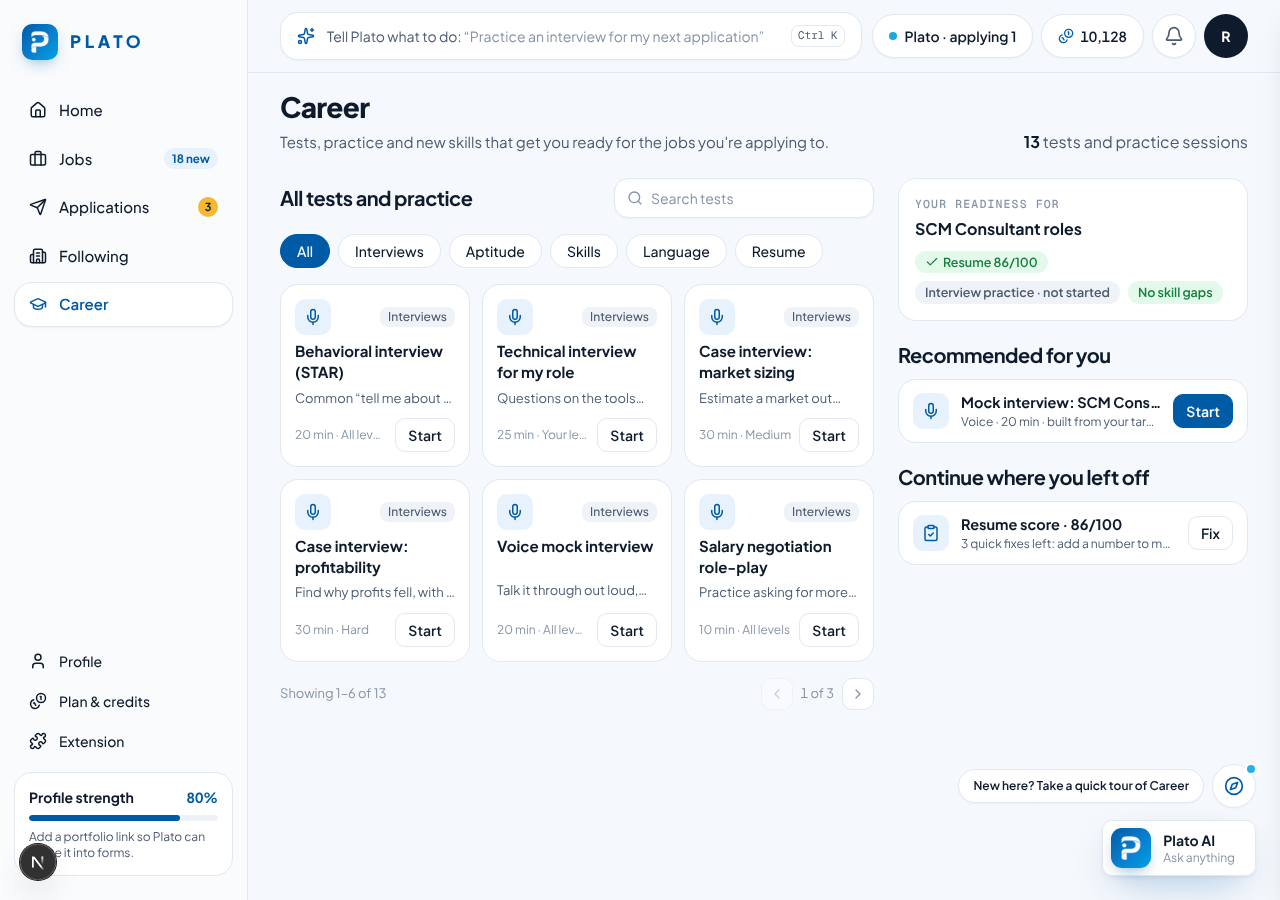
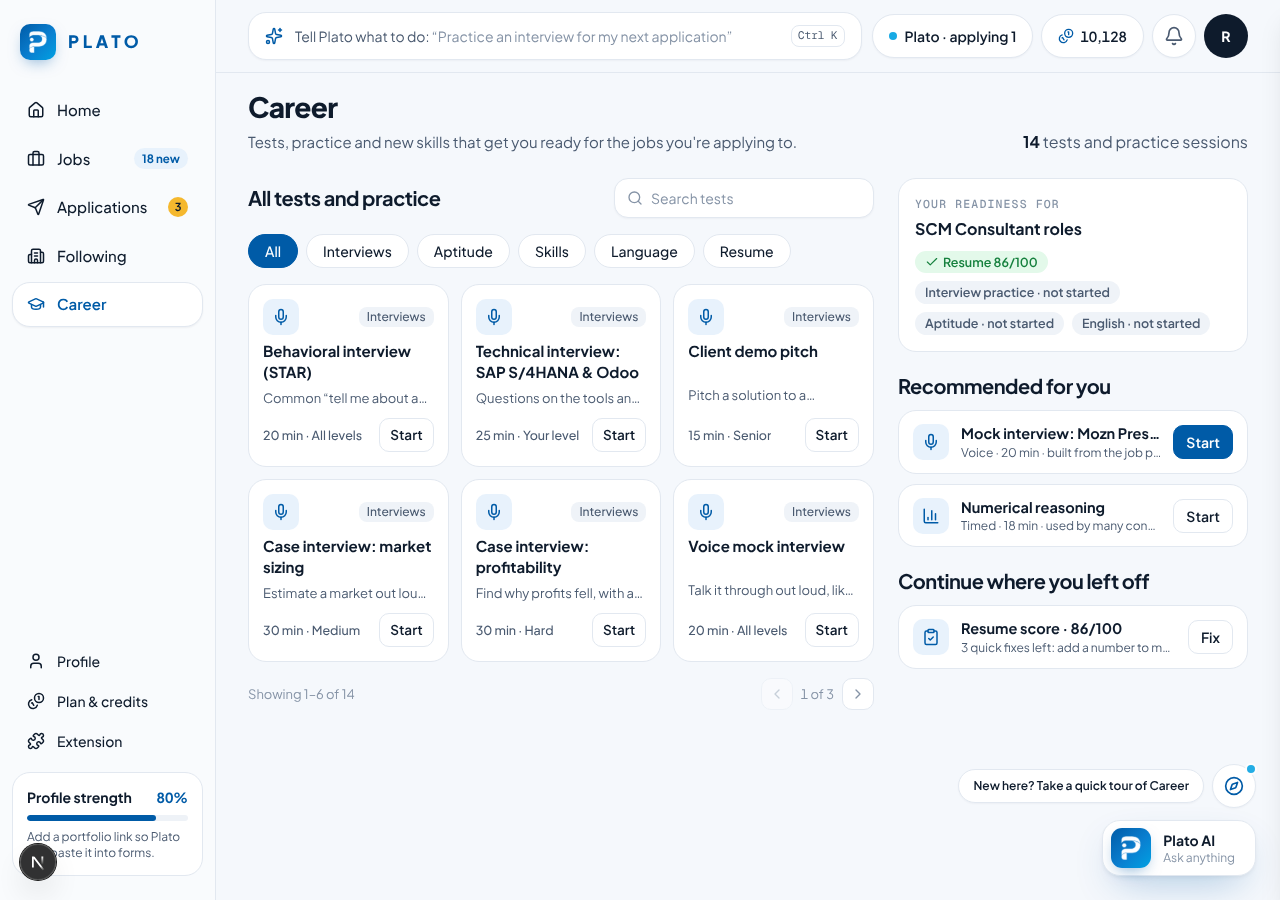
Career closer to the owner's screen 11; sidebar at the screens' width
- Technical interview named after the seeker's skills ('Technical
  interview: SAP S/4HANA & Odoo'); a Client demo pitch card.
- Readiness shows Aptitude and English (not started / practised, from
  their career conversations) next to Resume and Interview practice.
- Recommended: a mock interview built from their best match's job post
  (opens the career chat with that job pinned), and Numerical reasoning
  until they have practised aptitude.
- Resume score row reads 'N quick fixes left: add a number to more
  bullets'; card details are darker and no longer cut off.
- The sidebar is 216px, as in the owner's screens (was 248), which gives
  every page the room the screens show.

Claude-Session: https://claude.ai/code/session_01VMzvXqWuLzBBxJrscGtA5K

diff --git a/plato-job-seeker-native-fe/app/(app)/career/page.tsx b/plato-job-seeker-native-fe/app/(app)/career/page.tsx
@@ -10,6 +10,8 @@ import { StatusPill } from "@/components/plato-ui"
 import { BAND_LABEL, getResumeScore, listCareerResumes, type ResumeScore, listCareerThreads, type CareerThreadSummary } from "@/lib/career/api"
 import { listInterviews, type InterviewSummary } from "@/lib/interviews/api"
 import { timeAgo } from "@/lib/jobs/links"
+import { getMatches, type JobMatch } from "@/lib/jobs/api"
+import { getProfile } from "@/lib/documents/api"
 import { getPreferences } from "@/lib/preferences/api"
 import { getSkillGap, type SkillGap } from "@/lib/skills/api"
 import { CareerChat } from "./career-chat"
@@ -21,6 +23,7 @@ type Practice = { cat: Exclude<Cat, "All">; title: string; body: string; meta: s
 const CATALOG: Practice[] = [
   { cat: "Interviews", title: "Behavioral interview (STAR)", body: "Common “tell me about a time” questions, scored", meta: "20 min · All levels", icon: Mic, prompt: "Give me a behavioral mock interview with STAR questions and score each answer" },
   { cat: "Interviews", title: "Technical interview for my role", body: "Questions on the tools and projects in your CV", meta: "25 min · Your level", icon: Mic, prompt: "Give me a technical mock interview for the role I'm targeting" },
+  { cat: "Interviews", title: "Client demo pitch", body: "Pitch a solution to a skeptical client, then get scored", meta: "15 min · Senior", icon: Mic, prompt: "Role-play a skeptical client and let me pitch a solution demo for my target role, then score my pitch" },
   { cat: "Interviews", title: "Case interview: market sizing", body: "Estimate a market out loud; Plato scores your structure", meta: "30 min · Medium", icon: Mic, prompt: "Give me a market sizing case interview and score my structure" },
   { cat: "Interviews", title: "Case interview: profitability", body: "Find why profits fell, with a structure", meta: "30 min · Hard", icon: Mic, prompt: "Give me a profitability case interview" },
   { cat: "Interviews", title: "Voice mock interview", body: "Talk it through out loud, like the real thing", meta: "20 min · All levels", icon: Mic, href: "/career/interviews" },
@@ -34,6 +37,8 @@ const CATALOG: Practice[] = [
   { cat: "Resume", title: "Tailor to a job", body: "Paste a posting, get a resume that matches it", meta: "5 min", icon: LayoutTemplate, prompt: "Tailor my resume to a job. I'll paste the posting." },
 ]
 const PAGE_SIZE = 6
+// "Add a number to more bullets (users, …): 38% have one" → "add a number to more bullets".
+const shortFix = (t: string) => t.split(/[:(]/)[0].replace(/\.$/, "").trim().replace(/^./, (c) => c.toLowerCase())
 const startHref = (p: Practice) => p.href ?? `/career?prompt=${encodeURIComponent(p.prompt ?? p.title)}`
 
 function CareerHome() {
@@ -47,6 +52,9 @@ function CareerHome() {
   const [threads, setThreads] = useState<CareerThreadSummary[] | null>(null)
   // The master resume's score (fixed rules on the server) and what would raise it.
   const [score, setScore] = useState<ResumeScore | null>(null)
+  const [skills, setSkills] = useState<string[]>([])
+  // The best match right now: the mock interview is built from its job post.
+  const [top, setTop] = useState<JobMatch | null>(null)
 
   useEffect(() => {
     getPreferences()
@@ -67,9 +75,21 @@ function CareerHome() {
     getResumeScore()
       .then(setScore)
       .catch(() => setScore(null))
+    getProfile()
+      .then((p) => setSkills(p.skills ?? []))
+      .catch(() => setSkills([]))
+    getMatches({ tab: "discover", sort: "best", take: 1 })
+      .then((r) => setTop(r.items[0] ?? null))
+      .catch(() => setTop(null))
   }, [])
 
-  const list = useMemo(() => CATALOG.filter((p) => (cat === "All" || p.cat === cat) && (!q.trim() || `${p.title} ${p.body}`.toLowerCase().includes(q.trim().toLowerCase()))), [cat, q])
+  // The technical interview is named after their strongest skills, as on the owner's screen.
+  const catalog = useMemo(() => CATALOG.map((p) => (p.title === "Technical interview for my role" && skills.length ? { ...p, title: `Technical interview: ${(skills.filter((x) => x.length <= 12).length >= 2 ? skills.filter((x) => x.length <= 12) : skills).slice(0, 2).join(" & ")}` } : p)), [skills])
+  // Aptitude and English count as started once a career conversation practised them.
+  const practised = (re: RegExp) => !!threads?.some((t) => re.test(t.title ?? ""))
+  const aptitude = practised(/reasoning|aptitude/i)
+  const english = practised(/english/i)
+  const list = useMemo(() => catalog.filter((p) => (cat === "All" || p.cat === cat) && (!q.trim() || `${p.title} ${p.body}`.toLowerCase().includes(q.trim().toLowerCase()))), [catalog, cat, q])
   const pages = Math.max(1, Math.ceil(list.length / PAGE_SIZE))
   const shown = list.slice(page * PAGE_SIZE, page * PAGE_SIZE + PAGE_SIZE)
   const done = interviews?.filter((i) => i.completedAt).length ?? 0
@@ -108,8 +128,8 @@ function CareerHome() {
                 <b className="line-clamp-2 min-h-[2.6em] text-[15px] leading-snug">{p.title}</b>
                 <span className="line-clamp-1 text-[13px] text-text-secondary">{p.body}</span>
                 <div className="mt-auto flex items-center justify-between gap-2 pt-1">
-                  <span className="truncate text-xs text-text-tertiary">{p.meta}</span>
-                  <Link href={startHref(p)} data-ai={`career.start:${p.title}`} className="shrink-0 rounded-lg border bg-card px-3 py-1.5 text-sm font-semibold hover:border-primary-line">
+                  <span className="truncate text-[12.5px] font-medium text-text-secondary">{p.meta}</span>
+                  <Link href={startHref(p)} data-ai={`career.start:${p.title}`} className="shrink-0 rounded-lg border bg-card px-2.5 py-1.5 text-[13.5px] font-semibold hover:border-primary-line">
                     Start
                   </Link>
                 </div>
@@ -154,7 +174,9 @@ function CareerHome() {
                 <StatusPill tone="neutral">Resume · not built</StatusPill>
               ) : null}
               {interviews !== null && <StatusPill tone={done ? "primary" : "neutral"}>{done ? `Interview practice ${Math.min(done, 3)} of 3` : "Interview practice · not started"}</StatusPill>}
-              {gaps !== null && <StatusPill tone={gaps.length ? "warning" : "success"}>{gaps.length ? `${gaps.length} skill gap${gaps.length === 1 ? "" : "s"}` : "No skill gaps"}</StatusPill>}
+              {threads !== null && <StatusPill tone={aptitude ? "primary" : "neutral"}>{aptitude ? "Aptitude · practised" : "Aptitude · not started"}</StatusPill>}
+              {threads !== null && <StatusPill tone={english ? "primary" : "neutral"}>{english ? "English · practised" : "English · not started"}</StatusPill>}
+              {!!gaps?.length && <StatusPill tone="warning">{`${gaps.length} skill gap${gaps.length === 1 ? "" : "s"}`}</StatusPill>}
             </div>
           </div>
 
@@ -163,7 +185,12 @@ function CareerHome() {
             {gaps?.[0] && (
               <Row icon={Lightbulb} title={`Learn ${gaps[0].skill}`} sub={`${gaps[0].missingIn} of your matches ask for it`} href="/career/skills" primary />
             )}
-            <Row icon={Mic} title={role ? `Mock interview: ${role}` : "Mock interview"} sub="Voice · 20 min · built from your target role" href="/career/interviews" primary={!gaps?.[0]} />
+            {top ? (
+              <Row icon={Mic} title={`Mock interview: ${top.job.company} ${top.job.title}`} sub="Voice · 20 min · built from the job post and your CV" href={`/career?job=${top.job.id}&jt=${encodeURIComponent(top.job.title)}&jc=${encodeURIComponent(top.job.company)}`} primary={!gaps?.[0]} />
+            ) : (
+              <Row icon={Mic} title={role ? `Mock interview: ${role}` : "Mock interview"} sub="Voice · 20 min · built from your target role" href="/career/interviews" primary={!gaps?.[0]} />
+            )}
+            {threads !== null && !aptitude && <Row icon={BarChart3} title="Numerical reasoning" sub="Timed · 18 min · used by many consulting firms" href={`/career?prompt=${encodeURIComponent("Give me a numerical reasoning practice test, one question at a time")}`} />}
             {!resumes?.length && <Row icon={FileText} title="Build my resume" sub="From your profile, ready as a PDF" href={`/career?prompt=${encodeURIComponent("Build my resume")}`} />}
           </div>
 
@@ -180,7 +207,7 @@ function CareerHome() {
                 <Row
                   icon={ClipboardCheck}
                   title={`Resume score · ${score.score}/100`}
-                  sub={score.topFixes.length ? `${score.topFixes.length} quick fix${score.topFixes.length === 1 ? "" : "es"} left: ${score.topFixes[0].replace(/\.$/, "").toLowerCase()}` : `${BAND_LABEL[score.band]}. Nothing quick left to fix.`}
+                  sub={score.topFixes.length ? `${score.topFixes.length} quick fix${score.topFixes.length === 1 ? "" : "es"} left: ${shortFix(score.topFixes[0])}` : `${BAND_LABEL[score.band]}. Nothing quick left to fix.`}
                   href={`/career?prompt=${encodeURIComponent(score.topFixes.length ? `Help me raise my resume score. Start with: ${score.topFixes[0]}` : "Score my resume")}`}
                   action={score.topFixes.length ? "Fix" : "Open"}
                 />

diff --git a/plato-job-seeker-native-fe/components/app-shell.tsx b/plato-job-seeker-native-fe/components/app-shell.tsx
@@ -145,9 +145,9 @@ function Frame({ children }: { children: ReactNode }) {
   const strength = setup ? Math.round((setup.done / setup.total) * 100) : null
 
   return (
-    <div className="theme-app grid min-h-dvh grid-cols-1 text-foreground lg:grid-cols-[248px_1fr]">
+    <div className="theme-app grid min-h-dvh grid-cols-1 text-foreground lg:grid-cols-[216px_1fr]">
       {/* Sidebar (owner screens 05-12): the job hunt, the account, profile strength. */}
-      <aside data-tour="sidebar" className="hidden border-r bg-[#f9fbfd] px-3.5 py-6 lg:sticky lg:top-0 lg:flex lg:h-dvh lg:flex-col lg:gap-7">
+      <aside data-tour="sidebar" className="hidden border-r bg-[#f9fbfd] px-3 py-6 lg:sticky lg:top-0 lg:flex lg:h-dvh lg:flex-col lg:gap-7">
         <Link href="/" data-ai="nav.logo" className="flex items-center gap-3 px-2" title="Plato">
           <PlatoMark size={36} />
           <span className="text-[17px] font-extrabold tracking-[0.22em] text-primary">PLATO</span>
